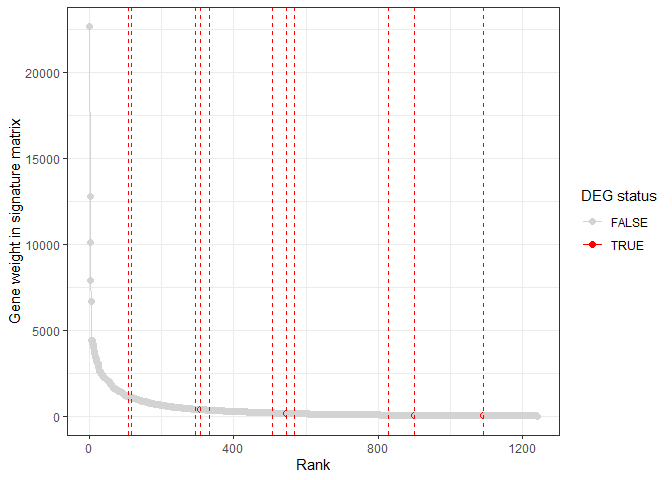
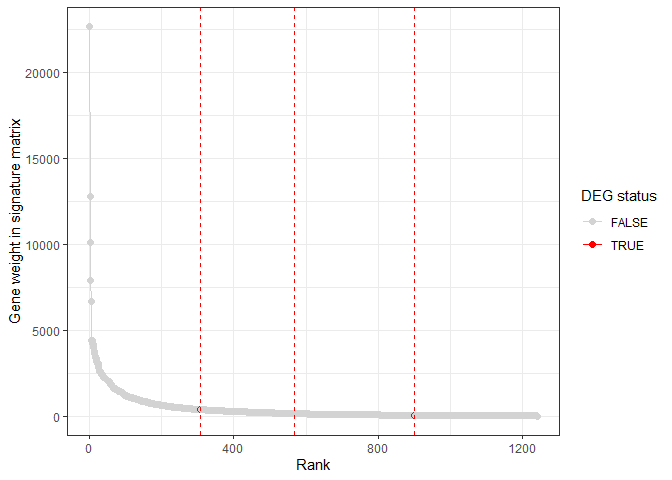
updated report

diff --git a/Rmd/DataExploration/CIBERSORTxSignatureMatrix.md b/Rmd/DataExploration/CIBERSORTxSignatureMatrix.md
@@ -64,7 +64,8 @@ with the genes used to deconvolute cell types
 
 ``` r
 signature_matrix <- fread("~/GitHub/CellDecon/output/CIBERSORTx/signature_one2one.txt")
-decon_DE <- fread("~/GitHub/CellDecon/output/DESeq2/decon_DEG.tsv", select = 1:2)
+decon_DE <- fread("~/GitHub/CellDecon/output/DESeq2/decon_DESeq_reduced.tsv")
+decon_DE <- decon_DE[abs(log2FoldChange) > 1 & padj <= 0.05][, .SD, .SDcols = c("ENSEMBL", "Symbol")]
 decon_DE[, Decon := TRUE]
 standard_DE <- fread("~/GitHub/CellDecon/output/DESeq2/standard_DEG.tsv", select = 1:2)
 standard_DE[, Standard := TRUE]
